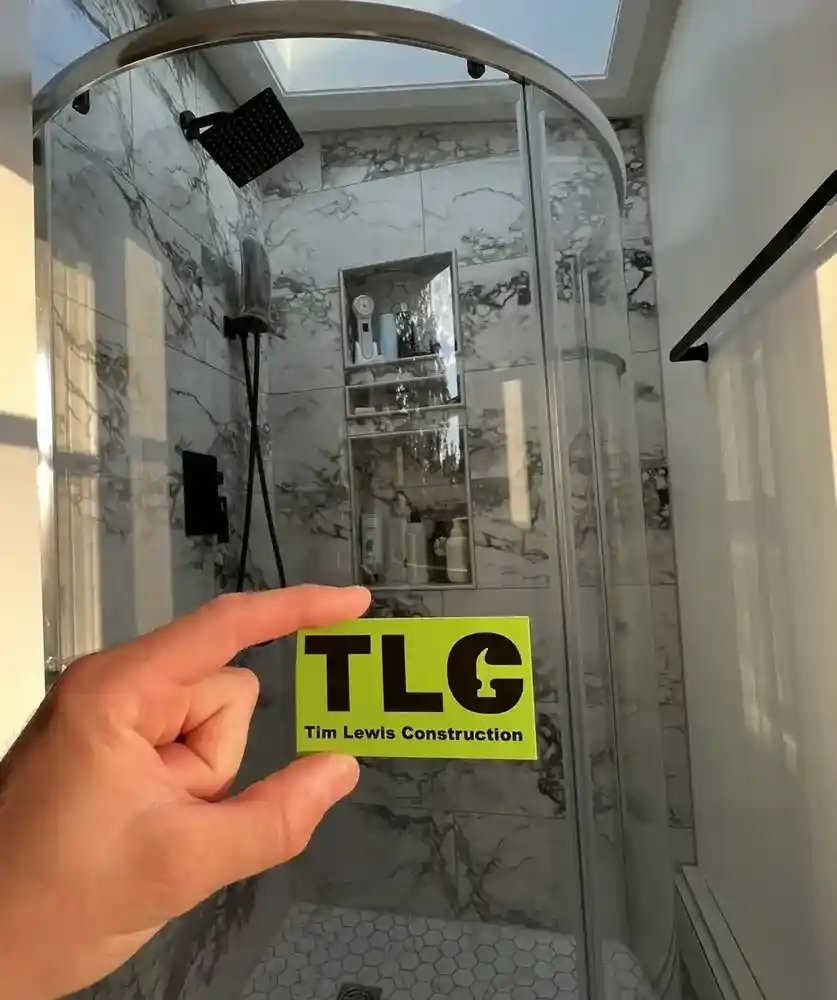
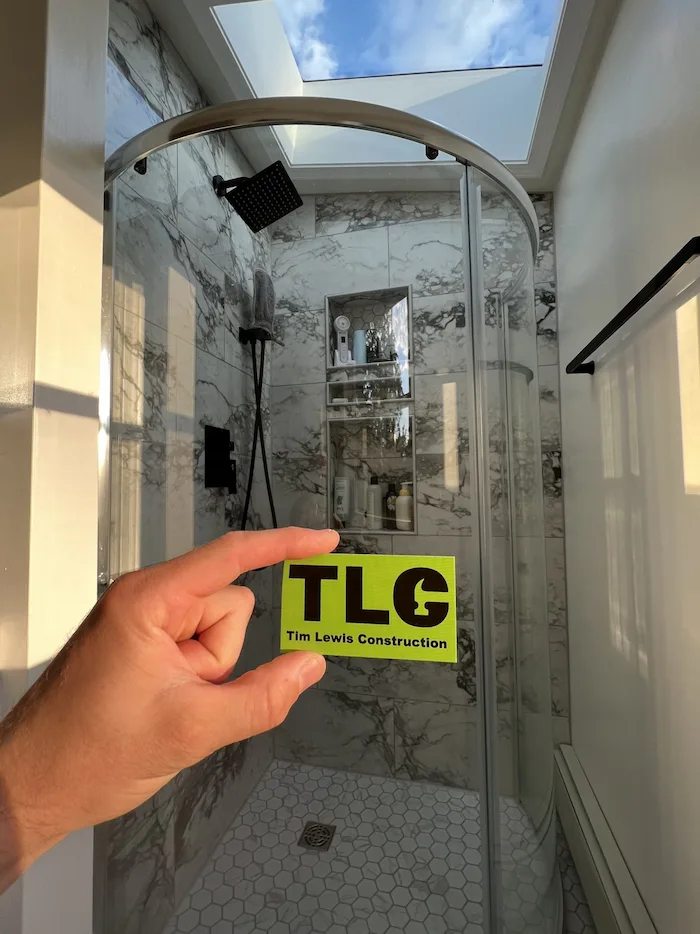
feat(testimonials|img): add testimonials page and upadate tlc_card image quality

diff --git a/src/assets/data/testimonialData.ts b/src/assets/data/testimonialData.ts
@@ -2,22 +2,30 @@ export interface TestimonialType {
   name: string
   rating: 1 | 2 | 3 | 4 | 5
   text: string
+  isFeatured: boolean
 }
 
-export const testimonials: TestimonialType[] = [
+export const testimonialsData: TestimonialType[] = [
   {
     name: 'Hannah H.',
     rating: 5,
     text: 'Tim has excellent craftsmanship, is super easy to communicate with, and is a very trustworthy and honest businessman! For any bathroom or other handwork related to homes, Tim is a top choice!  - His expertise and integrity make him highly valued in his industry.',
+    isFeatured: true,
   },
   {
     name: 'Mark T.',
     rating: 5,
     text: 'TLC is a fine builder and remodeler! I’ve used this company for bathroom remodeling and a custom post build on the front exterior of my house, which came out extraordinarily nice. Tim Lewis does high-end work meticulously well. Tim is also very honest, punctual and reliable. For construction work, TLC is the company to call.',
+    isFeatured: true,
   },
   {
     name: 'Emily L.',
     rating: 5,
     text: 'I love TLC! He is very professional and finishes the job beautifully! His finish work is pristine. He opened up our small bathroom and made it larger and tiled a curbless shower! He put in a sky light in the shower and a larger window near the vanity for natural light. It’s gorgeous!',
+    isFeatured: true,
   },
 ]
+
+export const getFeaturedTestimonials = () => {
+  return testimonialsData.filter(testimonial => testimonial.isFeatured)
+}

diff --git a/src/components/Layout/Testimonials/Testimonials.tsx b/src/components/Layout/Testimonials/Testimonials.tsx
@@ -1,7 +1,8 @@
 import React from 'react'
 import styles from './Testimonials.module.scss'
 import {
-  testimonials,
+  getFeaturedTestimonials,
+  testimonialsData,
   type TestimonialType,
 } from '../../../assets/data/testimonialData'
 import { Quote, Star } from 'lucide-react'
@@ -32,18 +33,23 @@ const SingleTestimonial = ({
   )
 }
 
-const Testimonials = () => {
+const Testimonials = ({ showAll = false }: { showAll?: boolean }) => {
+  const testimonialsToShow: TestimonialType[] = showAll
+    ? testimonialsData
+    : getFeaturedTestimonials()
   return (
     <div className={styles.Testimonials}>
       <div className='page__inner'>
         <div className={styles.content}>
-          <div className={styles.top}>
-            <div className={styles.subtitle}>TESTIMONIALS</div>
-            <h1 className='section-title'>What Our Clients Say</h1>
-          </div>
+          {!showAll && (
+            <div className={styles.top}>
+              <div className={styles.subtitle}>TESTIMONIALS</div>
+              <h1 className='section-title'>What Our Clients Say</h1>
+            </div>
+          )}
           <div className={styles.testimonials_list}>
-            {testimonials.map((testimonial, index) => (
-              <SingleTestimonial key={index} testimonial={testimonial} />
+            {testimonialsToShow.map((t, index) => (
+              <SingleTestimonial key={index} testimonial={t} />
             ))}
           </div>
         </div>

diff --git a/src/components/Layout/Testimonials/Testimonials.module.scss b/src/components/Layout/Testimonials/Testimonials.module.scss
@@ -3,9 +3,10 @@
 .Testimonials {
   margin-bottom: $gap-large;
   .content {
-    margin-top: $gap-large;
     width: 100%;
     .top {
+      margin-top: $gap-large;
+
       display: flex;
       flex-direction: column;
       align-items: center;
